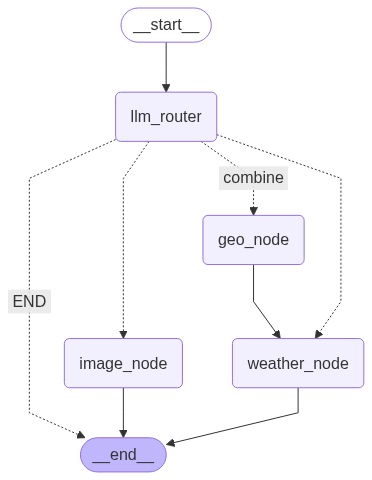
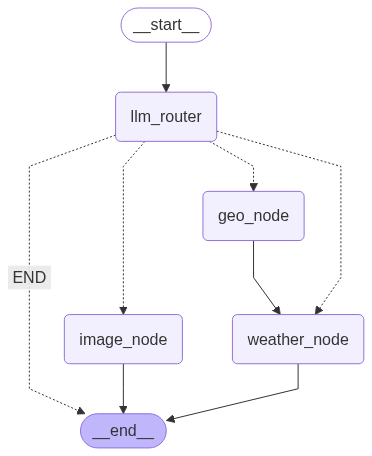
feature commit: langgraph

diff --git a/geo_teacher_llm/agents/graph_orchestration_agent2.py b/geo_teacher_llm/agents/graph_orchestration_agent2.py
@@ -1,0 +1,160 @@
+import os
+from langchain_community.chat_models import ChatOllama
+from langgraph.graph import StateGraph, END
+from langgraph.graph.message import add_messages
+from langgraph.prebuilt import ToolNode
+from langchain_openai import ChatOpenAI
+from langchain_core.tools import Tool
+from langchain_core.prompts import PromptTemplate
+# 🚩 1) Définir tes outils wrappers (fonctionnels) pour function calling propre
+from geo_teacher_llm.agents.geo_teacher_agent import geo_teacher_agent
+from geo_teacher_llm.agents.weather_agent import get_weather
+from geo_teacher_llm.agents.image_agent import fetch_country_landscape_images
+from langchain_core.runnables import RunnableLambda, RunnablePassthrough
+from langchain_core.output_parsers import StrOutputParser
+from IPython.display import Image, display
+from typing import TypedDict, List, Any
+from langchain_core.messages import HumanMessage, AIMessage
+from langsmith import traceable
+
+os.environ["LANGSMITH_TRACING"]="true"
+os.environ["LANGSMITH_ENDPOINT"]="https://api.smith.langchain.com"
+os.environ["LANGSMITH_API_KEY"]="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"
+os.environ["LANGSMITH_PROJECT"]="geo_teacher_llm2"
+
+
+class GeoTeacherState(TypedDict):
+    input: str
+    route: str
+    messages: list
+
+
+# Wrapper Tool 1 : récupérer capitale
+tool_get_answer = Tool(
+    name="answer_geography_question",
+    description="Answer a geography question",
+    func=geo_teacher_agent,
+)
+
+# Wrapper Tool 2 : récupérer météo
+tool_get_weather = Tool(
+    name="get_weather_from_capital",
+    description="Get the current weather in a country by providing the capital name.",
+    func=get_weather,
+)
+
+# Wrapper Tool 2 : récupérer météo
+tool_get_images = Tool(
+    name="get_images_of_country",
+    description="Get images of a country.",
+    func=fetch_country_landscape_images,
+)
+
+# 🚩 2) Instancier le LLM orchestrateur avec function calling
+tools = [tool_get_answer, tool_get_weather, tool_get_images]
+
+llm = ChatOllama(
+    model="llama3.2",
+    temperature=0,
+    base_url="http://localhost:11434",
+    tools=tools,
+)
+
+# 2⃣ Router prompt
+router_prompt = PromptTemplate.from_template("""
+
+You are an intelligent router for a geography assistant.
+Analyze the question and answer only with one of these categories:
+- 'weather' if the question is about meteorological conditions in a place
+- 'images' if the question is about getting pictures of a geographical place
+- 'geography' if it's something else
+
+The answer will be one word: weather, images or geography
+                                                              
+Question: {input}
+""")
+
+llm_router_chain = (
+    {"input": RunnablePassthrough()}
+    | router_prompt
+    | llm
+    | StrOutputParser()
+    | (lambda route: {"route": route.strip(),  "messages": [
+        HumanMessage(content="What is the weather in Berlin?"),
+        AIMessage(
+            content="",
+            additional_kwargs={
+                "tool_calls": [
+                    {
+                        "id": "tool_call_id",
+                        "function": {
+                            "name": "get_weather",
+                            "arguments": {"city": "Berlin"}
+                        },
+                        "type": "function"
+                    }
+                ]
+            }
+        )
+    ]})
+)
+
+
+weather_node = ToolNode(tools=[tool_get_weather])
+geo_node = ToolNode(tools=[tool_get_answer])
+image_node = ToolNode(tools=[tool_get_images])
+# 🚩 3) Créer le graph LangGraph avec nœud LLM central
+workflow = StateGraph(GeoTeacherState)
+
+workflow.add_node("llm_router", llm_router_chain)
+workflow.add_node("weather_node", get_weather)
+workflow.add_node("geo_node", geo_node)
+workflow.add_node("image_node", image_node)
+
+workflow.set_entry_point("llm_router")
+
+@traceable
+def router_decision(state):
+    route = state["route"].lower()
+    print(route)
+    if route == "weather":
+        print("weather_node")
+        return "weather_node"
+    elif route == "images":
+        print("image_node")
+        return "image_node"
+    else:
+        print("geo_node")
+        return "geo_node"
+
+workflow.add_conditional_edges(
+    "llm_router",
+    router_decision,
+    {
+        "weather_node": "weather_node",
+        "image_node": "image_node",
+        "geo_node": "geo_node",
+        "END": END
+    }
+)
+
+
+# End after execution
+workflow.add_edge("geo_node", END)
+workflow.add_edge("weather_node", END)
+workflow.add_edge("image_node", END)
+
+# Compile
+app = workflow.compile()
+
+# =============== CLI LOOP ===============
+if __name__ == "__main__":
+    while True:
+        user_input = input("Pose ta question de géographie (ou 'exit') : ")
+        if user_input.lower() == "exit":
+            break
+        
+        response = app.invoke({"input": user_input})
+        print("\n🪐 Réponse :")
+        print(response['messages'])
+        print("\n---\n")

diff --git a/geo_teacher_llm/agents/graph_orchestration_agent.py b/geo_teacher_llm/agents/graph_orchestration_agent.py
@@ -15,6 +15,14 @@ from langchain_core.output_parsers import StrOutputParser
 from IPython.display import Image, display
 from typing import TypedDict, List, Any
 
+from langsmith import traceable
+
+os.environ["LANGSMITH_TRACING"]="true"
+os.environ["LANGSMITH_ENDPOINT"]="https://api.smith.langchain.com"
+os.environ["LANGSMITH_API_KEY"]="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"
+os.environ["LANGSMITH_PROJECT"]="geo_teacher_llm"
+
+
 class GeoTeacherState(TypedDict):
     input: str
     route: str
@@ -65,7 +73,7 @@ Question: {input}
 """)
 
 from langchain_core.messages import HumanMessage, AIMessage
-
+@traceable
 def create_tool_call_message(tool_name, content="", tool_args={}):
     """
     Manually create an AIMessage with the structure ToolNode expects.
@@ -84,15 +92,26 @@ def create_tool_call_message(tool_name, content="", tool_args={}):
         }
     )
 
-
+@traceable
 def prepare_toolnode_input(state):
-    # state contient {"route": "weather", "messages": [HumanMessage(...)]}
+    print("ééééééééééééééé")
+    print(state)
     route = state["route"]
     messages = state["messages"]
-    # Crée l'AIMessage de routage pour ToolNode
-    ai_message = create_tool_call_message(tool_name=route, content="", tool_args={})
+    print('~~~~~~~~###~~~~~~~~~~', route)
+    print('~~~~~~~~###~~~~~~~~~~', messages)
+    route_to_tool_name = {
+        "weather": "get_weather_from_capital",
+        "images": "get_images_of_country",
+        "combine": "answer_geography_question"
+    }
+    tool_name = route_to_tool_name.get(route)
+    print(f"🪐 Preparing ToolNode input for tool: {tool_name}")
+
+    ai_message = create_tool_call_message(tool_name=tool_name, content="", tool_args={})
     messages.append(ai_message)
     return {"messages": messages}
+
 
 llm_router_chain = (
     {"input": RunnablePassthrough()}
@@ -121,6 +140,7 @@ workflow.add_node("image_node", image_node)
 
 workflow.set_entry_point("llm_router")
 
+@traceable
 def route_decision(state):
     print(f"DEBUG: state keys before routing: {list(state.keys())}")
     print(state['messages'])
@@ -139,6 +159,19 @@ def route_decision(state):
         # return {"route": "default_node"}
         print('#########geo')
         return "geo_node"
+    
+# def route_decision(state):
+#     route = state.get("route", "")
+#     print(f"🧩 Routing with LLM route: {route}")
+#     if route == "weather":
+#         print('######weather')
+#         return "weather_node"
+#     elif route == "images":
+#         return "image_node"
+#     else:  # combine or fallback
+#         return "combine"
+
+
 
 workflow.add_conditional_edges(
     "llm_router",
@@ -146,7 +179,7 @@ workflow.add_conditional_edges(
     {
         "weather_node": "weather_node",
         "image_node": "image_node",
-        "combine": "geo_node",
+        "geo_node": "geo_node",
         "END": END
     }
 )
@@ -177,6 +210,13 @@ while True:
     if user_input.lower() == "exit":
         break
     response = app.invoke({"input": user_input}, {"recursion_limit": 3})
+    if "messages" in response and response["messages"]:
+        last_message = response["messages"][-1]
+        print("\n🪐 Réponse de l'agent :")
+        print(last_message)
+    else:
+        print("🪐 Pas de message dans la réponse :", response)
+
     with open("langgrpah.png", "wb") as file:
         file.write(png)
     print('~~~~~~~~~~~~',response)

diff --git a/geo_teacher_llm/agents/weather_agent.py b/geo_teacher_llm/agents/weather_agent.py
@@ -42,20 +42,20 @@ def get_capital_from_country(country_name):
     country_key = ALIASES.get(country_key, country_key)
     return COUNTRY_TO_CAPITAL.get(country_key)
 
-def get_weather(capital_name, country=None, lang="en"):
+def get_weather(state):
     """
     Retrieve current weather for a capital city using WeatherAPI.
     """
-    print("weeeeeeeeeeeeeeaaaaaaaathhhhhhhhheeeerrrr")
+    capital_name="London"
+    country="England"
     if not API_KEY:
         raise ValueError("WeatherAPI key not found. Please set WEATHER_API_KEY in your .env file.")
-    print("weeeeeeeeeeeeeeaaaaaaaathhhhhhhhheeeerrrr")
     query = f"{capital_name},{country}" if country else capital_name
 
     params = {
         "key": API_KEY,
         "q": query,
-        "lang": lang
+        "lang": "en"
     }
 
     try:
@@ -76,9 +76,9 @@ def get_weather(capital_name, country=None, lang="en"):
             f"with a temperature of {temp_c}°C (feels like {feelslike_c}°C) "
             f"and humidity at {humidity}%."
         )
-
-        return weather_report
-
+        state['messages']= weather_report
+        return state
+    
     except requests.exceptions.HTTPError as http_err:
         return f"HTTP error occurred: {http_err}"
     except requests.exceptions.RequestException as req_err:
